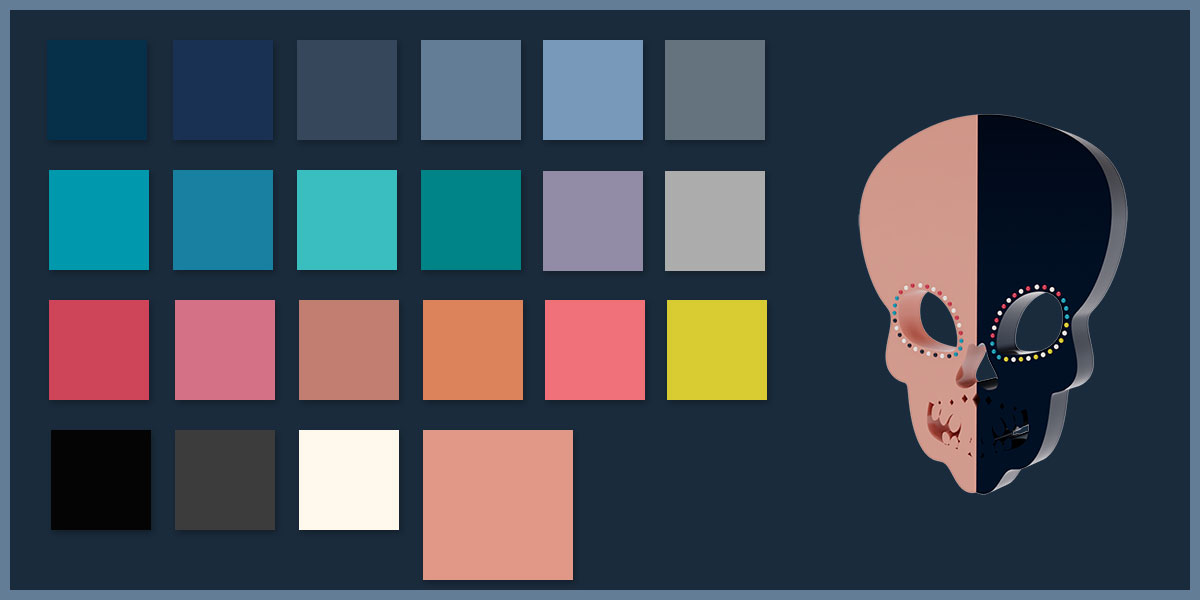
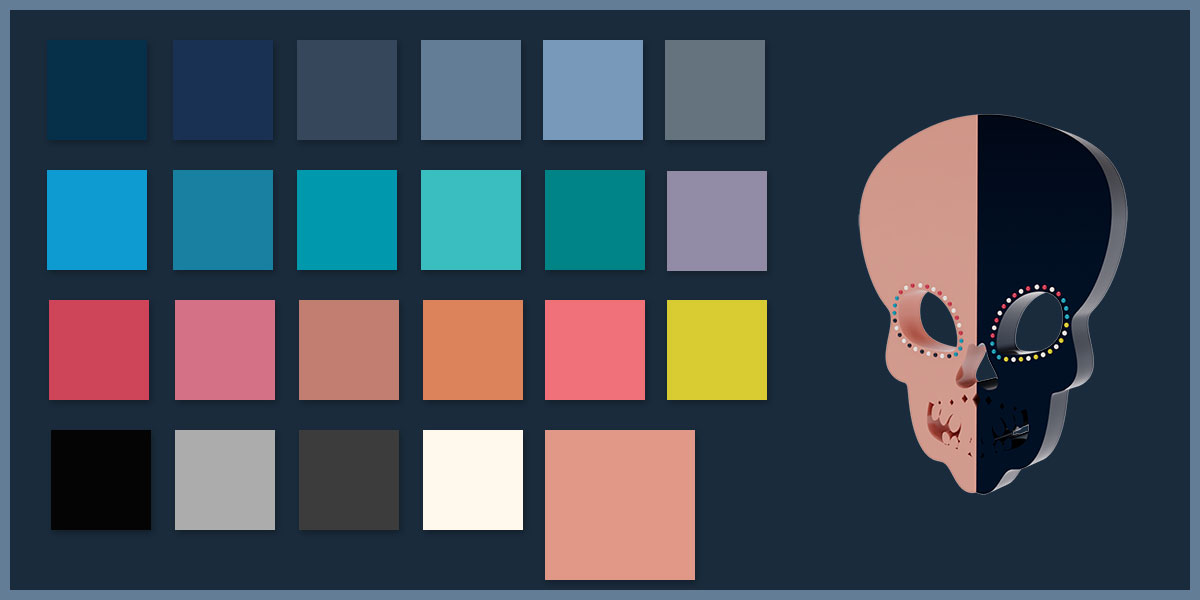
Updates Changelog and colors image

Changed region(s): [[0.1233, 0.69, 0.5858, 0.99], [0.2467, 0.27, 0.6475, 0.45], [0.0308, 0.27, 0.1233, 0.45]]

diff --git a/CHANGELOG.md b/CHANGELOG.md
@@ -1,5 +1,12 @@
 # Change Log
 
+## **0.1.3**
+
+- Improves Terminal colors
+- Adds Twig customization
+- Includes new shade of blue #0e9bd1
+- bug fixes
+
 ## **0.1.2**
 
 - bug fix
